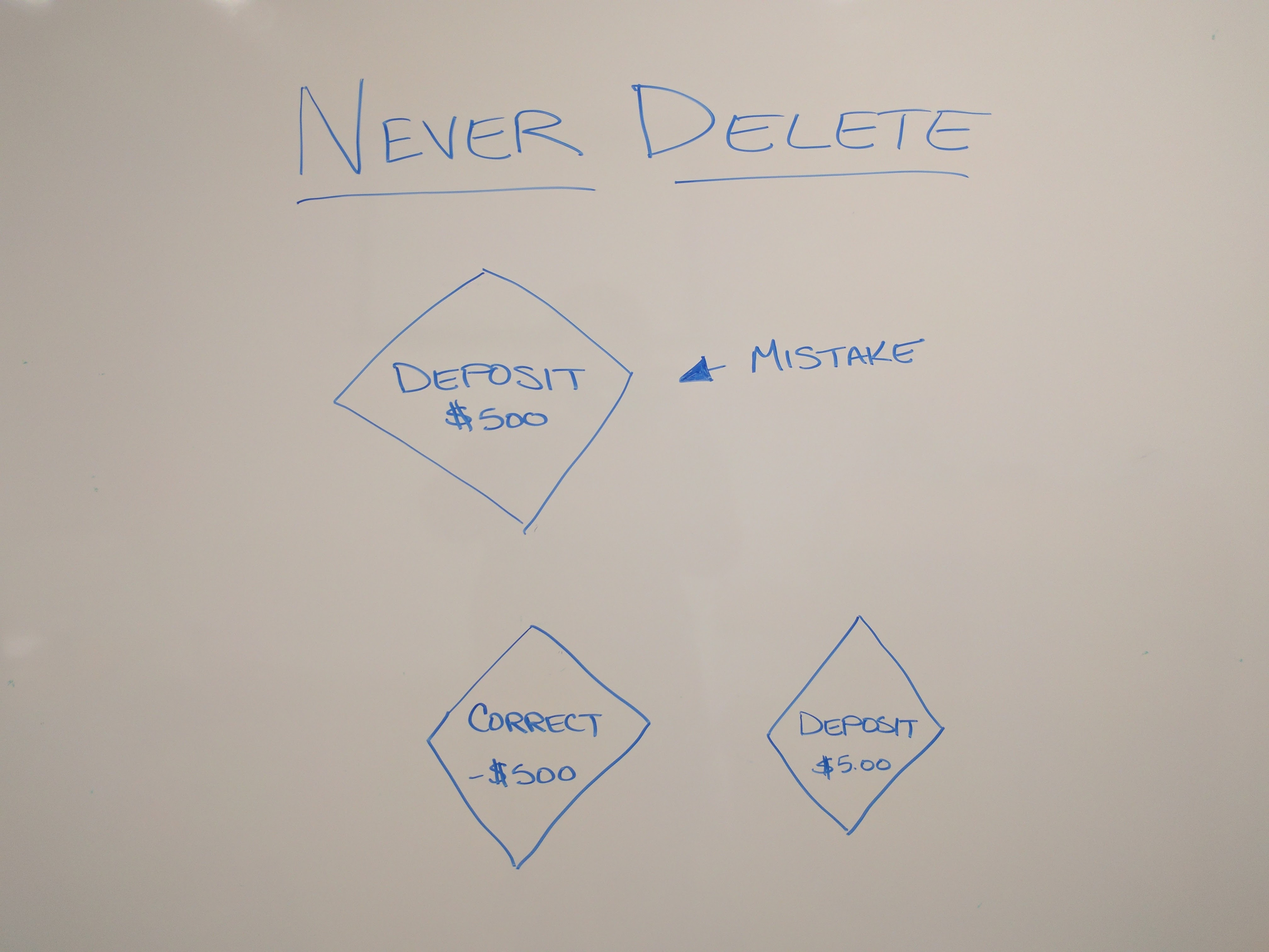
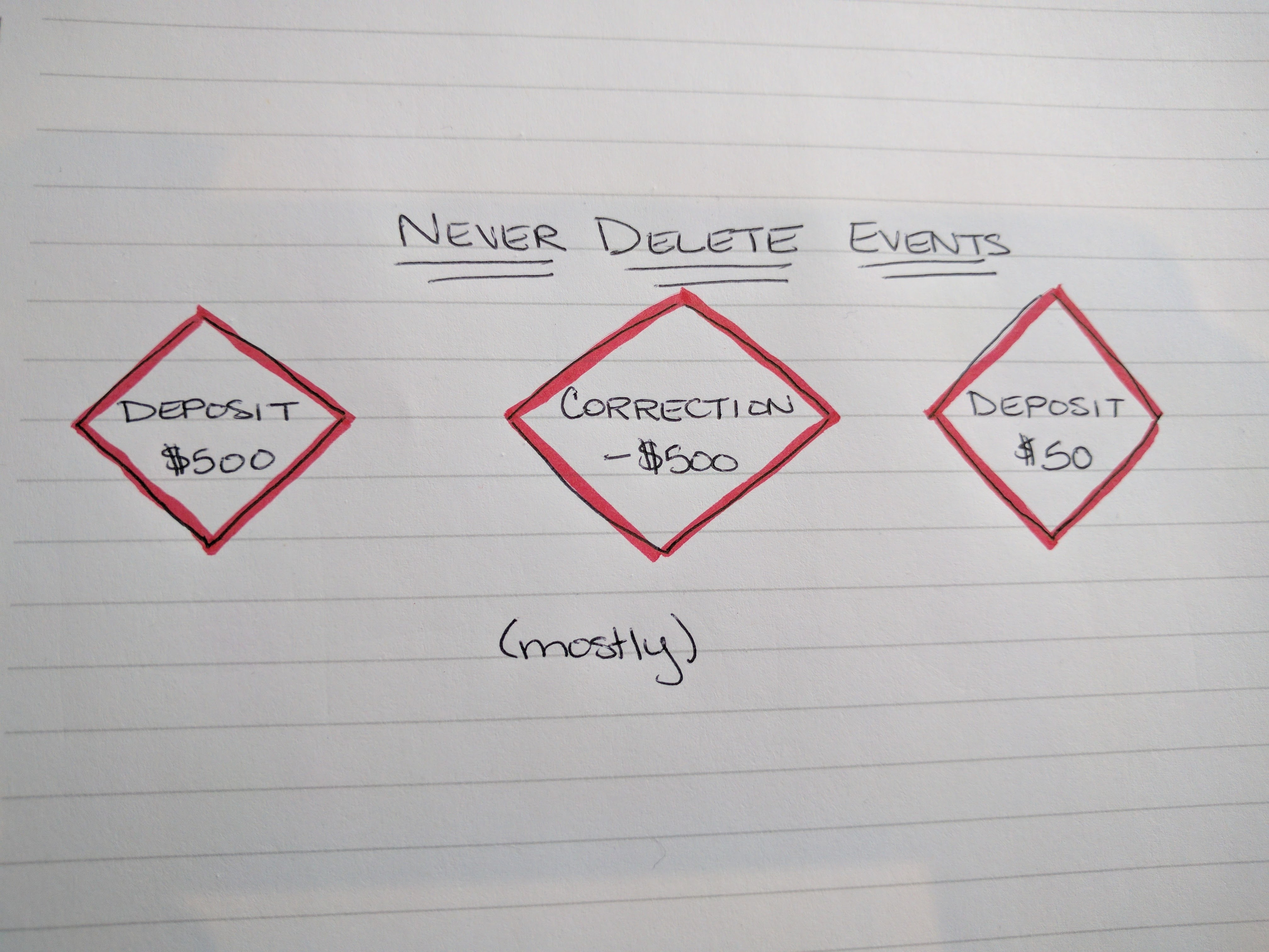
final revisions

diff --git a/presentations/status_change.html b/presentations/status_change.html
@@ -463,9 +463,9 @@
                     <myColBox>
                         <article>
                             <ol>
-                                <li>Every change is captured in an event object</li>
+                                <li>Every happening is captured in an event object</li>
                                 <li>Event objects are stored in the sequence they happened</li>
-                                <li>That sequence determines the order they will be applied in our code</li>
+                                <li>That sequence determines the order they will be applied in your code</li>
                             </ol>
                         </article>
                     </myColBox>
@@ -474,7 +474,7 @@
                 </section>
                 <section>
                     <myTitleBox>
-                        <h3>Events</h3>
+                        <h3>Rules for Events</h3>
                     </myTitleBox>
                     <myColBox>
                         <article>
@@ -490,10 +490,10 @@
                         </article>
                     </myColBox>
                     <aside class="notes">
-                        <p>You will see event names like Enrolllment Request Was Approved because validation was done prior to recording the event,
+                        <p>You will see event names like Enrollment Request Was Approved because validation was done prior to recording the event,
                         and these are KNOWN happenings in our system</p>
                         <p>This Event will have attributes, like the student id, the course id, who the approver was
-                            because this is important information</p>
+                            because this is the important information</p>
                         <p>We wouldn't store the Enrollment Request Object because if we ever changed that object, we'd
                             have difficulty applying the event or reconstructing that object</p>
                         <p>Storing the VALUES on our Event gives us the flexibility for the system to change later
@@ -513,9 +513,15 @@
                     </aside>
                 </section>
                 <section>
+                    <myTitleBox>
+                        <h2>Why Events?</h2>
+                    </myTitleBox>
                     <myColBox>
                         <article>
-                           <p><img src="img/status_change/why_events.jpg" alt="why_events.jpg"></p>
+                            <p><u>state transistions</u> are <u>important</u></p>
+                            <p>We need an <u>audit log</u> and <u>proof</u> of state</p>
+                            <p>This <u>history</u> is more important than the current state</p>
+                            <p><u>Able to replay these events to rebuild state</u></p>
                         </article>
                     </myColBox>
                     <aside class="notes">
@@ -528,12 +534,26 @@
                         <li>And when they completely changed the format of budgets they wanted to review, we could easily rebuild that without affecting the amounts.</li>
                     </aside>
                 </section>
+                <!--<section>-->
+                    <!--<myColBox>-->
+                        <!--<article>-->
+                           <!--<p><img src="img/status_change/why_events.jpg" alt="why_events.jpg"></p>-->
+                        <!--</article>-->
+                    <!--</myColBox>-->
+                    <!--<aside class="notes">-->
+                        <!--<li>The events that got us to this state are more important than the current status</li>-->
+                        <!--<li>We now have an audit log, and proof of how we got to this state</li>-->
+                        <!--<li>That history is more important that the current state BECAUSE</li>-->
+                        <!--<li>We are able to replay those events to prove the state</li>-->
+                        <!--<li>With our Scholarships Application, we collected the attributes that helped a student match for the scholarship to keep a record of why they were chosen </li>-->
+                        <!--<li>If we needed to see the budgets on any given day in the past, we could produce that information</li>-->
+                        <!--<li>And when they completely changed the format of budgets they wanted to review, we could easily rebuild that without affecting the amounts.</li>-->
+                    <!--</aside>-->
+                <!--</section>-->
                 <section>
-                    <myColBox>
-                        <article>
-                            <img src="img/status_change/dont_delete_events.jpg" alt="event_rules.jpg">
-                        </article>
-                    </myColBox>
+                    <footer>
+                        <img src="img/status_change/dont_delete_events.jpg" alt="event_rules.jpg">
+                    </footer>
                     <aside class="notes">
                         <p>Greg Young in a talk makes a point of how difficult it was to find a picture of an accountant erasing
                             because that's not something they do.  They make a correction undoing a mistake and then make the intended adjustment</p>
@@ -542,30 +562,38 @@
                     </aside>
                 </section>
                 <section>
-                    <myColBox>
-                        <article>
-                           <p><img src="img/status_change/event_rules.jpg" alt="event_rules.jpg"></p>
-                        </article>
-                    </myColBox>
+                    <footer>
+                       <p><img src="img/status_change/events-treated-differently.jpg"></p>
+                    </footer>
                     <aside class="notes">
-                        <p>notes for the picture:  not event2</p>
                         <p>In our system, we have an event with some meaning, and a listener that sees that event when it happens
                         <li>the apply method tells our system what should happen in this context and it produces this result</li>
-                        <li>but what if our understanding of the event changes.  We might rewrite that apply event method, which produces a different result</li>
                         <li>Maybe these are two different views in our system, that handle different behavior, those would coexist; like reports for two different types of users</li>
+                    </aside>
+                </section>
+                <section>
+                    <footer>
+                        <p><img src="img/status_change/events-replaced.jpg"></p>
+                    </footer>
+                    <aside class="notes">
+                        <li>but what if our understanding of the event changes.  We might rewrite that apply event method, which produces a different result</li>
                         <li>But it could also be that we rewrite what it means to apply that event and the new apply method stays, with the new report, and the old is deleted</li></p>
                     </aside>
                 </section>
                 <section>
                     <myColBox>
                         <article>
-                            <p>The event is less likely to change.  Things like Approve and Reject a
-                                Request may later require additional attributes, but the part of the
-                                process that will change is most likely the result that follows that event.</p>
+                            <p>Events don't change</p>
+                            <p>The part of the
+                                code that will change is most likely the result that follows that event.</p>
                             <p> The structure of the resulting data is more likely to change than the behavior</p>
                         </article>
                     </myColBox>
                     <aside class="notes">
+                        <p>The event is less likely to change.  Things like Approve and Reject a
+                            Request may later require additional attributes, but the part of the
+                            process that will change is most likely the result that follows that event.</p>
+                        <p> The structure of the resulting data is more likely to change than the behavior</p>
                     </aside>
                 </section>
                 <section>
@@ -1232,6 +1260,22 @@ class DatabaseEventStore implements EventStore
                 </section>
                 <section>
                     <myTitleBox>
+                        <h2>Listeners (Class)</h2>
+                    </myTitleBox>
+                    <myColBox>
+                        <article>
+                            <ul>
+                                <li>create listeners that listen to certain events and determine what they mean</li>
+                                <li>StudentProfileProjector</li>
+                                <li>EnrollmentRequests Read Model</li>
+                            </ul>
+                        </article>
+                    </myColBox>
+                    <aside class="notes">
+                    </aside>
+                </section>
+                <section>
+                    <myTitleBox>
                         <h2>Projector </h2>
                     </myTitleBox>
 <pre><code>&lt;?php
@@ -1320,7 +1364,6 @@ class EnrollmentRequestProjector extends SimpleProjector implements Replayable
     }
 
 }
-
 </code></pre>
                     <span class="fragment current-only" data-code-focus="13"></span>
                     <span class="fragment current-only" data-code-focus="24"></span>
@@ -1344,36 +1387,36 @@ class EnrollmentRequestProjector extends SimpleProjector implements Replayable
                     </myTitleBox>
 <pre><code>&lt;?php
 
-    namespace App\Enrollment\ReadModel;
+namespace App\Enrollment\ReadModel;
 
 
-    use Carbon\Carbon;
-    use Illuminate\Database\Eloquent\Model;
+use Carbon\Carbon;
+use Illuminate\Database\Eloquent\Model;
 
-    /**
-    * @codeCoverageIgnore
-    */
-    class EnrollmentRequest extends Model
-    {
+/**
+* @codeCoverageIgnore
+*/
+class EnrollmentRequest extends Model
+{
     protected  $table = 'proj_enrollment_requests';
     public $incrementing = false;
     public $timestamps = false;
 
     public static function current()
     {
-    return static::where('student_id', auth()->user()->name)->get();
+        return static::where('student_id', auth()->user()->name)->get();
     }
 
     public static function lookupRequestsFor($username)
     {
-    return static::where('student_id', $username)->get();
+        return static::where('student_id', $username)->get();
     }
 
     public function offering()
     {
-    return $this->hasOne(CourseOffering::class, 'id', 'course_offering_id');
+        return $this->hasOne(CourseOffering::class, 'id', 'course_offering_id');
     }
-    }
+}
 </code></pre>
                     <span class="fragment current-only" data-code-focus="10"></span>
                     <aside class="notes">
@@ -1382,45 +1425,8 @@ class EnrollmentRequestProjector extends SimpleProjector implements Replayable
                 </section>
                 <section>
                     <myTitleBox>
-                        <h2>Listeners (Class)</h2>
+                       <h2>Commands</h2>
                     </myTitleBox>
-                    <myColBox>
-                        <article>
-                            <ul>
-                                <li>create listeners that listen to certain events and determine what they mean</li>
-                                <li>StudentProfileProjector</li>
-                                <li>EnrollmentRequests Read Model</li>
-                            </ul>
-                        </article>
-                    </myColBox>
-                    <aside class="notes">
-                    </aside>
-                </section>
-
-                <section>
-                    <myColBox>
-                        <article>
-                           <p>code for projections</p>
-                        </article>
-                    </myColBox>
-                    <aside class="notes">
-                    </aside>
-                </section>
-                <section>
-                    <myColBox>
-                        <article>
-                           <p>code for read model</p>
-                        </article>
-                    </myColBox>
-                    <aside class="notes">
-                    </aside>
-                </section>
-                <section>
-                    <myColBox>
-                        <article>
-                           <p>Commands</p>
-                        </article>
-                    </myColBox>
 <pre><code>&lt;?php
 
 namespace App\Enrollment\Commands;
@@ -1596,14 +1602,6 @@ class EnrollmentPeriodHandler extends CommandHandler
                     </aside>
                 </section>
                 <section>
-                    <myColBox>
-                        <article>
-                        </article>
-                    </myColBox>
-                    <aside class="notes">
-                    </aside>
-                </section>
-                <section>
                     <myTitleBox>
                         <h2>Pros</h2>
                     </myTitleBox>
@@ -1636,6 +1634,11 @@ class EnrollmentPeriodHandler extends CommandHandler
                     </aside>
                 </section>
                 <section>
+                    <footer>
+                        <img src="img/status_change/we-did-it.jpg">
+                    </footer>
+                </section>
+                <section>
                     <myTitleBox>
                         <h3>Links for further reading</h3>
                     </myTitleBox>
@@ -1654,15 +1657,11 @@ class EnrollmentPeriodHandler extends CommandHandler
                     </aside>
                 </section>
                 <section>
-                    <myColBox>
-                        <article>
-                            <img src="img/midwest_logo.svg">
-                            <h1>Thank You!</h1>
-                            <p>Emily Stamey</p>
-                            <p>Twitter: <a href="https://twitter.com/elstamey">@elstamey</a></p>
-                            <p>Joind.in: <a href="https://joind.in/talk/280df">https://joind.in/talk/280df</a></p>
-                        </article>
-                    </myColBox>
+                    <img src="img/midwest_logo.svg">
+                    <h1>Thank You!</h1>
+                    <p>Emily Stamey</p>
+                    <p>Twitter: <a href="https://twitter.com/elstamey">@elstamey</a></p>
+                    <p>Joind.in: <a href="https://joind.in/talk/280df">https://joind.in/talk/280df</a></p>
                 </section>
             </div>
         </div>
